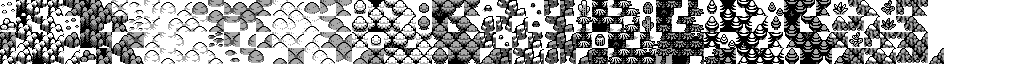
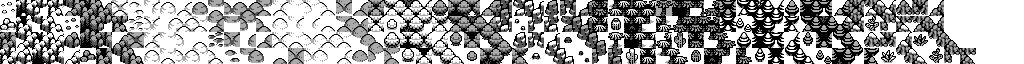
Completed Hill0 biome tile set

diff --git a/core/src/net/benmclean/planetgenerator/model/Planet.java b/core/src/net/benmclean/planetgenerator/model/Planet.java
@@ -130,7 +130,7 @@ public class Planet implements Disposable {
                 biomeName = "Bump0";
                 break;
         }
-//        biomeName = "Dune1";
+        biomeName = "Hill0";
 
 //        backgroundColor = new Color(15f / 255f, 215f / 255f, 1f, 1f);
         backgroundColor = SColor.randomColorWheel(rng, 2, 2);
